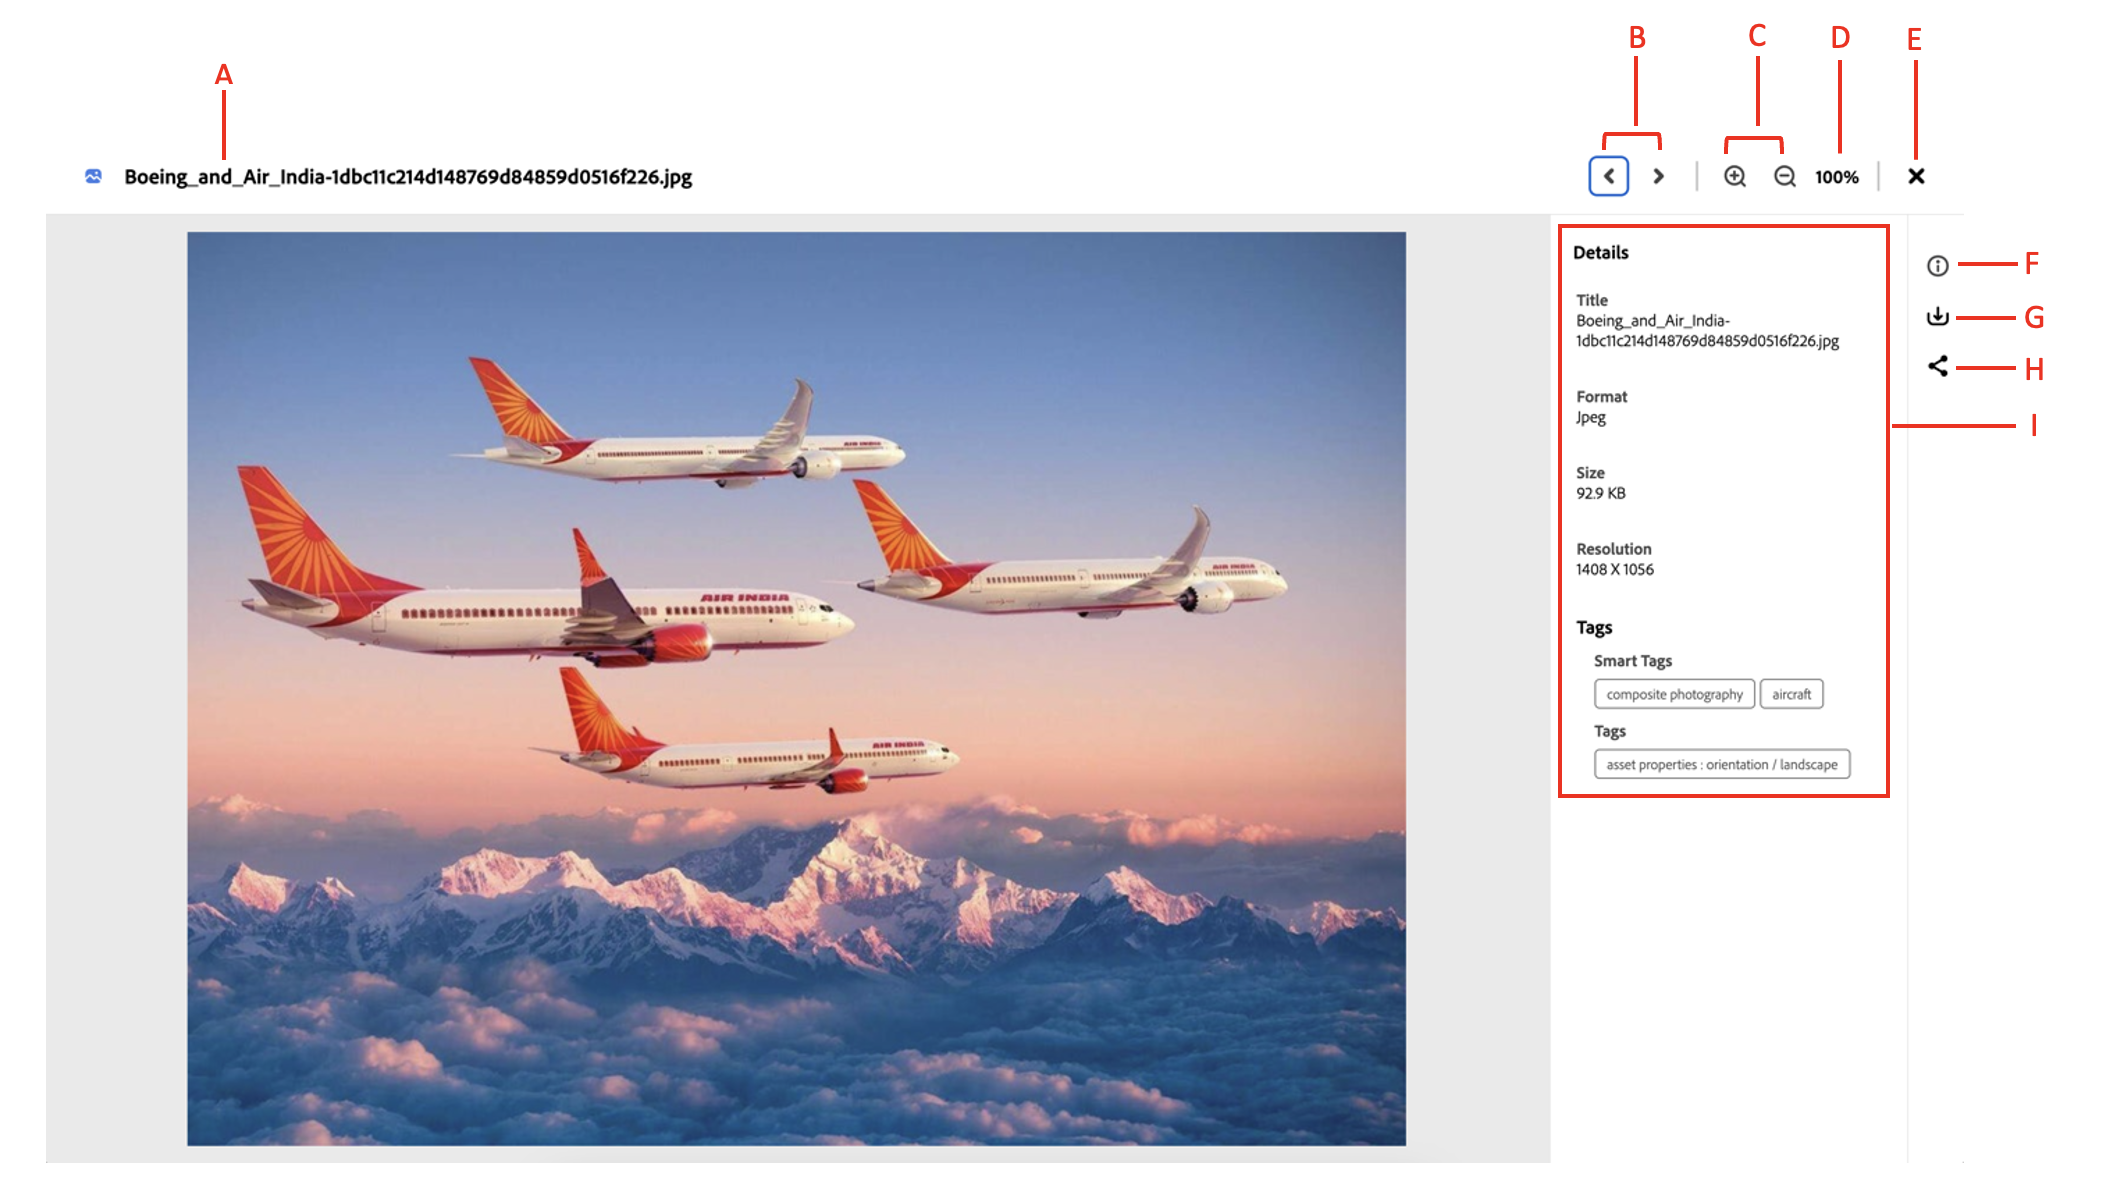
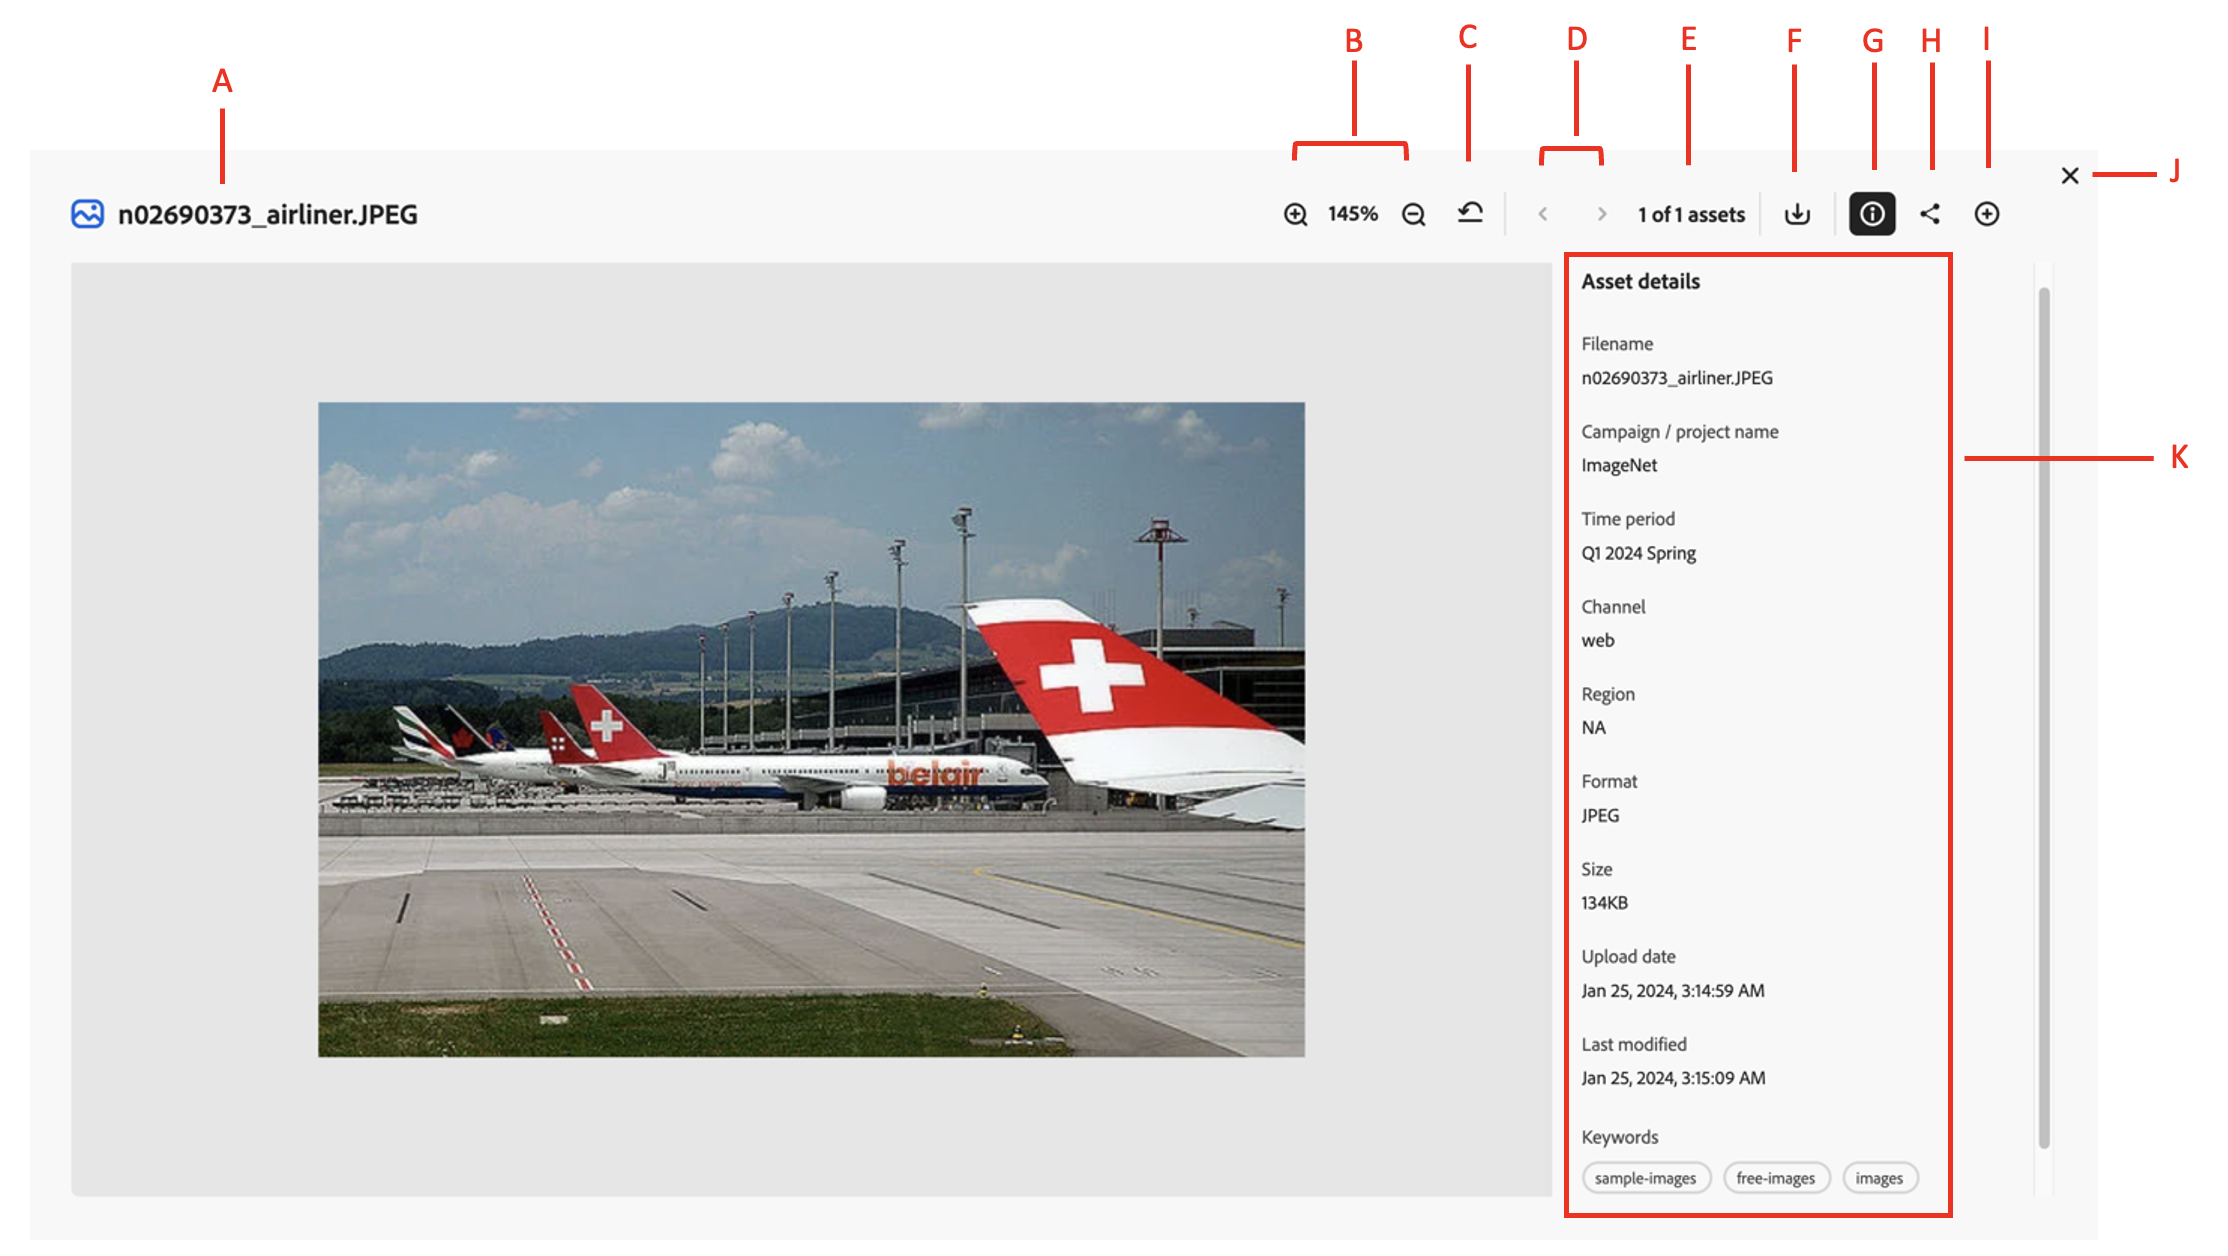
changes as per updated UI

diff --git a/help/search-assets.md b/help/search-assets.md
@@ -66,7 +66,7 @@ Use the Filters panel to search for assets based on metadata. You can filter sea
       </td>
      </tr>
      <tr>
-      <td>Format</td>
+      <td>File format</td>
       <td>Composition of an asset. The supported assets include image, document, video, printable media, and so on.</td>
       <td>
         <ul>
@@ -87,7 +87,7 @@ Use the Filters panel to search for assets based on metadata. You can filter sea
       <td>NA</td>
      </tr>
      <tr>
-      <td>Modified</td>
+      <td>Last modified</td>
       <td>Search assets based on their last modification. Specify the date range using the Start date and End date fields.</td>
       <td>
         <ul>
@@ -99,6 +99,36 @@ Use the Filters panel to search for assets based on metadata. You can filter sea
      <tr>
       <td>Asset ID</td>
       <td>Unique number that identifies the asset.</td>
+      <td>NA</td>
+     </tr>
+     <tr>
+      <td> Campaigns </td>
+      <td> Allows you to search using planned activity performed to take any particular action. For example, advertisement campaign run on Ferrari to know the understand the interest of people using number of clicks people perform.</td>
+      <td>NA</td>
+     </tr>
+     <tr>
+      <td> Channels </td>
+      <td> Helps you to understand the path from where the asset is coming from. For example, web, social media, book, catalog, etc.</td>
+      <td>NA</td>
+     </tr>
+     <tr>
+      <td> Region </td>
+      <td> Helps you to understand the location from where the asset is coming from. For example, Japan, EMEA, Worldwide, etc.</td>
+      <td>NA</td>
+     </tr>
+     <tr>
+      <td> Keywords </td>
+      <td> Keyword helps you search using terms or the words that you enter based on the topic. For example, images, low-resolution, etc.</td>
+      <td>NA</td>
+     </tr>
+     <tr>
+      <td> Timeframe </td>
+      <td> Helps you search assets using timeline. For example, search by year 2024, Q3 2023, etc.</td>
+      <td>NA</td>
+     </tr>
+     <tr>
+      <td> Colors </td>
+      <td> Helps you search assets using colors that are automatically identified in an asset using Adobe's Sensei AI capabilities.</td>
       <td>NA</td>
      </tr>  
     </tbody>

diff --git a/help/asset-properties.md b/help/asset-properties.md
@@ -27,14 +27,16 @@ Before you use, share, or download an asset, you can view it more closely. The p
 ![Properties of an asset UI](assets/properties-ui.png)
 
 * **A:** Title of an asset 
-* **B:** Proceed to previous or next asset 
-* **C:** Preview asset more closely by zooming in or out 
-* **D:** Percentage of zoom 
-* **E:** Close preview screen 
-* **F:** Collapse or preview information of an asset 
-* **G:** Download the asset 
+* **B:** Percentage of zoom or preview asset more closely by zooming in or out 
+* **C:** Undo zoom to the previously selected percentage 
+* **D:** Proceed to previous or next asset 
+* **E:** Assets count
+* **F:** Download the asset 
+* **G:** Collapse or preview information of an asset 
 * **H:** Share the asset 
-* **I:** Information of an asset which includes title, format, size, resolution, tags, and smart tags. 
+* **I:** Add asset to [!DNL Collection] 
+* **J:** Close preview screen
+* **K:** Information of an asset which includes title, format, size, resolution, tags, color tags, and smart tags. 
 
 ## Supported formats {#supported-formats}
 
